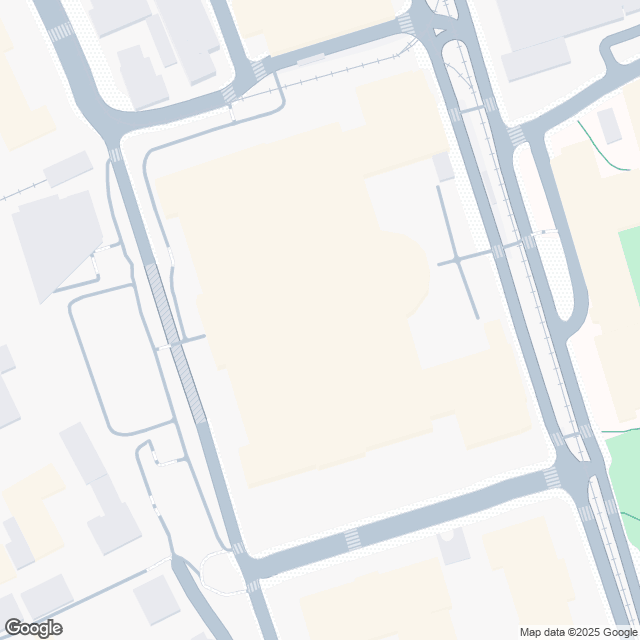
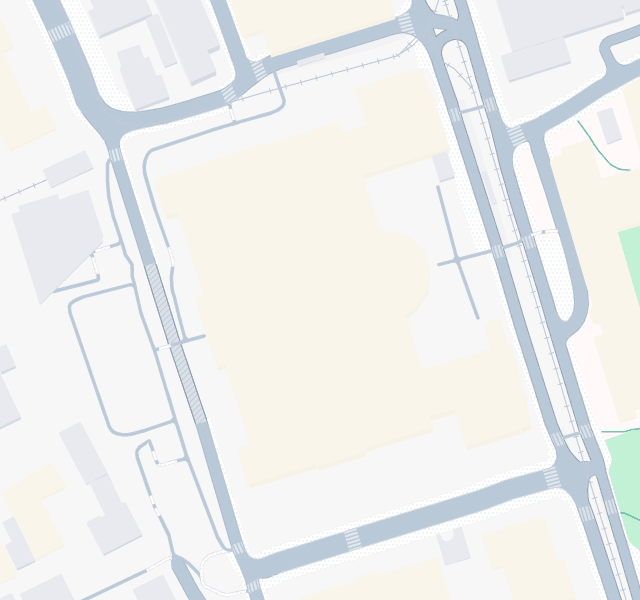
optimize obstacle map

diff --git a/utils/script_google_map.py b/utils/script_google_map.py
@@ -65,10 +65,11 @@ def fetch_map_image(
     maptype: str = "roadmap",
     scale: int = 1,
     hide_labels: bool = True,
+    crop_attribution_px: int = 40,
 ) -> Tuple[Image.Image, np.ndarray]:
     """
     Download a Google Maps Static API image and return it with the
-    pixel->meter affine matrix.
+    pixel->meter affine matrix. Optionally crop the bottom attribution bar.
     """
     base_url = "https://maps.googleapis.com/maps/api/staticmap"
     params = {
@@ -88,6 +89,13 @@ def fetch_map_image(
         raise RuntimeError(f"Static Maps error {response.status_code}: {response.text}")
 
     image = Image.open(io.BytesIO(response.content))
+    if crop_attribution_px > 0 and image.height > crop_attribution_px:
+        # Remove Google attribution/footer text. Homography remains valid for the
+        # retained pixels because origin/scale are unchanged.
+        new_height = image.height - crop_attribution_px
+        image = image.crop((0, 0, image.width, new_height))
+        height = new_height
+
     homography = build_affine_matrix(center_lat, center_lon, zoom, width, height, scale)
     return image, homography
 
@@ -109,6 +117,7 @@ def download_coordinate_list(
     maptype: str = "roadmap",
     scale: int = 1,
     hide_labels: bool = True,
+    crop_attribution_px: int = 40,
 ) -> List[Dict[str, object]]:
     """
     Fetch a default Google Maps image for each (name, lat, lon) triple,
@@ -130,6 +139,7 @@ def download_coordinate_list(
             maptype=maptype,
             scale=scale,
             hide_labels=hide_labels,
+            crop_attribution_px=crop_attribution_px,
         )
         filename = images_dir / f"{idx:02d}_{_slug(name)}.png"
         image.save(filename)
@@ -169,6 +179,7 @@ if __name__ == "__main__":
             maptype="roadmap",  # Use "satellite" if you need satellite imagery.
             scale=1,
             hide_labels=True,
+            crop_attribution_px=40,
         )
 
         for tile in tiles:
